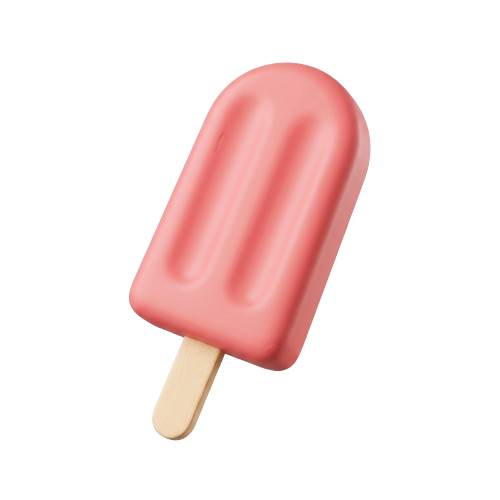
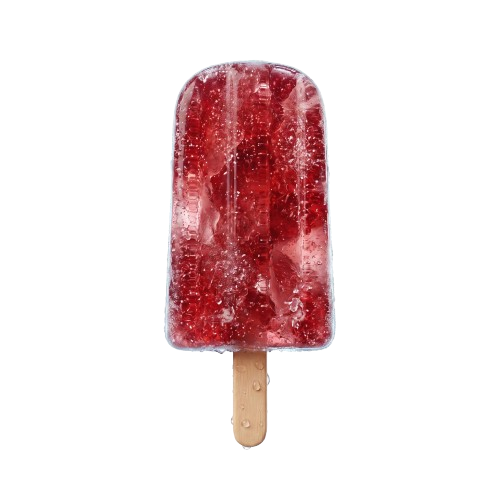
ui: integracion de branding, optimizacion responsiva de barra de busqueda y lenguaje natural

Changed region(s): [[0.24, 0.12, 0.75, 0.9]]

diff --git a/src/PosMenu.jsx b/src/PosMenu.jsx
@@ -11,6 +11,9 @@ export default function PosMenu() {
   
   // Estado local para almacenar los productos traidos desde la base de datos.
   const [catalog, setCatalog] = useState([]);
+  
+  // Estado local para filtrar sabores mediante búsqueda.
+  const [searchQuery, setSearchQuery] = useState('');
 
   // Bandera de estado para alternar la funcionalidad de los botones (cobro vs actualizacion).
   // Inicializada desde sessionStorage para persistir ante recargas de pagina.
@@ -204,10 +207,18 @@ export default function PosMenu() {
     <div className="pos-container">
       <section className="bill-section">
         <div className="bill-header">
-          <h2>Cuenta Actual</h2>
+          <div style={{ display: 'flex', alignItems: 'center', gap: '0.75rem' }}>
+            <img 
+              src="/images/logo.png" 
+              alt="Logo Paletería" 
+              style={{ width: '80px', height: '80px', objectFit: 'contain' }} 
+              onError={(e) => e.target.style.display = 'none'} 
+            />
+            <h2>Cuenta Actual</h2>
+          </div>
         </div>
         <p className="summary-text">
-          <span>Artículos: {getTotalItems()}</span>
+          <span>Paletas: {getTotalItems()}</span>
           <span>Total: ${getTotalCost().toFixed(2)}</span>
         </p>
         <ul className="bill-list">
@@ -219,7 +230,7 @@ export default function PosMenu() {
               title="Quitar un artículo"
             >
               <span className="item-name">{item.flavor}</span>
-              <span className="item-quantity">x{item.quantity} <span className="remove-icon">Remove</span></span>
+              <span className="item-quantity">x{item.quantity} <span className="remove-icon">Quitar</span></span>
             </li>
           ))}
         </ul>
@@ -236,6 +247,13 @@ export default function PosMenu() {
 
       <section className="grid-section">
         <div className="grid-header">
+          <input
+            type="text"
+            className="search-input"
+            placeholder="Buscar sabor..."
+            value={searchQuery}
+            onChange={(e) => setSearchQuery(e.target.value)}
+          />
           <button 
             className="settings-icon-btn"
             onClick={() => setIsAdminOpen(true)}
@@ -248,7 +266,7 @@ export default function PosMenu() {
           </button>
         </div>
         <div className={`flavor-grid ${isEditMode ? 'edit-mode' : ''}`}>
-          {catalog.map((itemDef) => (
+          {catalog.filter(item => item.sabor.toLowerCase().includes(searchQuery.toLowerCase())).map((itemDef) => (
             <button 
               key={itemDef.id} 
               className="flavor-button"

diff --git a/src/CierreMensual.jsx b/src/CierreMensual.jsx
@@ -106,7 +106,7 @@ export default function CierreMensual() {
 
     autoTable(doc, {
       startY: currentY + 15,
-      head: [['Fecha de Cierre', 'Monto Esperado', 'Efectivo Fisico', 'Merma / Excedente']],
+      head: [['Fecha de Corte', 'Ventas (Sistema)', 'Dinero en Caja', 'Faltante / Sobrante']],
       body: closureRows,
     });
 
@@ -117,7 +117,7 @@ export default function CierreMensual() {
   return (
     <div className="mensual-container">
       <div className="mensual-header">
-        <h3 className="mensual-title">Balance y Cierre Mensual</h3>
+        <h3 className="mensual-title">Resumen Mensual de Ventas</h3>
         
         <div className="mensual-controls">
           <input 
@@ -138,22 +138,22 @@ export default function CierreMensual() {
       
       <div className="cards-wrapper">
         <div className="summary-card">
-          <h4>Ingreso Bruto Mensual</h4>
+          <h4>Ventas Registradas</h4>
           <span className="card-value">${totalGrossIncome.toFixed(2)}</span>
         </div>
         <div className="summary-card">
-          <h4>Total Efectivo Real</h4>
+          <h4>Dinero Real en Caja</h4>
           <span className="card-value">${totalActualCash.toFixed(2)}</span>
         </div>
         <div className={`summary-card ${totalGap < 0 ? 'deficit' : 'surplus'}`}>
-          <h4>Desfase Acumulado (Merma)</h4>
+          <h4>Faltante o Sobrante</h4>
           <span className="card-value">${totalGap.toFixed(2)}</span>
         </div>
       </div>
 
       <div className="chart-wrapper">
         <h4>Frecuencia de Ventas por Sabor</h4>
-        <div id="pdf-chart-node" style={{ backgroundColor: '#1a1a1a', padding: '1rem' }}>
+        <div id="pdf-chart-node" style={{ backgroundColor: '#ffffff', padding: '1rem', borderRadius: '16px' }}>
           <ResponsiveContainer width="100%" height={300}>
             <PieChart>
               <Pie
@@ -170,7 +170,7 @@ export default function CierreMensual() {
                   <Cell key={`cell-${index}`} fill={COLORS[index % COLORS.length]} />
                 ))}
               </Pie>
-              <Tooltip contentStyle={{ backgroundColor: '#2a2a2a', border: '1px solid #444444', color: '#ffffff' }} />
+              <Tooltip contentStyle={{ backgroundColor: '#ffffff', border: '1px solid #eeeeee', color: '#333333', borderRadius: '8px' }} />
               <Legend />
             </PieChart>
           </ResponsiveContainer>

diff --git a/src/AdminPanel.jsx b/src/AdminPanel.jsx
@@ -12,25 +12,25 @@ export default function AdminPanel({ onClose, isEditMode, setIsEditMode }) {
     <div className="admin-overlay">
       <div className="admin-modal">
         <div className="admin-header">
-          <h2>Panel Administrativo</h2>
+          <h2>Configuración</h2>
           <button className="close-btn" onClick={onClose}>&times;</button>
         </div>
         <div className="admin-body">
           <p className="admin-description">
-            Opciones para modificar el menú y gestionar los cortes de caja.
+            Desde aquí puedes cambiar precios, agregar sabores y ver las ventas.
           </p>
           <button 
             className={`admin-action-btn edit-mode-btn ${isEditMode ? 'active' : ''}`}
             onClick={() => setIsEditMode(prev => !prev)}
           >
-            {isEditMode ? 'Desactivar Modo Edición' : 'Activar Modo Edición'}
+            {isEditMode ? 'Terminar de Editar' : 'Editar Precios y Sabores'}
           </button>
           
           <button 
             className="admin-action-btn cierre-btn"
             onClick={() => setIsClosing(true)}
           >
-            Realizar Cierre Diario
+            Hacer Corte del Día
           </button>
           
           <CierreMensual />

diff --git a/src/PosMenu.css b/src/PosMenu.css
@@ -93,8 +93,31 @@
 
 .grid-header {
   display: flex;
-  justify-content: flex-end;
+  justify-content: space-between;
+  align-items: center;
   margin-bottom: 1rem;
+}
+
+.search-input {
+  flex: 1; /* Permite que la barra se adapte dinámicamente al ancho disponible */
+  max-width: 100%;
+  margin-right: 1rem; /* Mantiene una distancia segura con el engranaje en pantallas pequeñas */
+  padding: 0.75rem 1.5rem;
+  border-radius: 30px; /* Highly rounded like a pill */
+  border: 2px solid transparent;
+  background-color: rgba(255, 255, 255, 0.7);
+  color: var(--text-dark);
+  font-size: 1.1rem; /* El tamaño mayor a 16px evita el auto-zoom en iOS Safari */
+  font-weight: 600;
+  outline: none;
+  box-shadow: inset 4px 4px 8px rgba(0, 0, 0, 0.05), inset -4px -4px 8px rgba(255, 255, 255, 0.8);
+  font-family: inherit;
+  transition: all 0.2s ease;
+}
+
+.search-input:focus {
+  background-color: #ffffff;
+  border-color: var(--primary-pink);
 }
 
 .settings-icon-btn {

diff --git a/src/Login.jsx b/src/Login.jsx
@@ -32,7 +32,15 @@ export default function Login({ onLoginSuccess }) {
   return (
     <div className="login-container">
       <div className="login-box">
-        <h2>¡Bienvenido!</h2>
+        <div style={{ display: 'flex', justifyContent: 'center', marginBottom: '1rem' }}>
+          <img 
+            src="/images/logo.png" 
+            alt="Logo Paletería" 
+            style={{ width: '120px', height: '120px', objectFit: 'contain', filter: 'drop-shadow(0 4px 8px rgba(0,0,0,0.1))' }} 
+            onError={(e) => e.target.style.display = 'none'} 
+          />
+        </div>
+        <h2>¡Bienvenid@!</h2>
         <p>Ingresa la clave para comenzar.</p>
         <form onSubmit={handleSubmit}>
           <input

diff --git a/index.html b/index.html
@@ -2,9 +2,9 @@
 <html lang="en">
   <head>
     <meta charset="UTF-8" />
-    <link rel="icon" type="image/svg+xml" href="/favicon.svg" />
+    <link rel="icon" type="image/png" href="/images/logo.png" />
     <meta name="viewport" content="width=device-width, initial-scale=1.0, maximum-scale=1.0, user-scalable=no" />
-    <title>sistema-paleteria</title>
+    <title>Paletas Artesanales</title>
   </head>
   <body>
     <div id="root"></div>

diff --git a/CHANGELOG.md b/CHANGELOG.md
@@ -1,5 +1,26 @@
 # Registro de Cambios - Sistema POS Paletería
 
+## ✨ Branding, Optimización Móvil y Lenguaje Humano
+
+### 1. Identidad Visual y Logotipo
+- **Integración de Marca:** Se implementó el logotipo personalizado (`logo.png`) en el sistema. Ahora se renderiza en gran tamaño en la pantalla de bienvenida (`Login.jsx`) y de forma compacta (80px) en el encabezado del Menú de Ventas.
+- **Favicon y Pestaña:** Se reemplazó el icono por defecto de React por el logotipo de la paletería en `index.html` y se actualizó el título estático de la página a **"Paletas Artesanales"**.
+
+### 2. Ergonomía y Estética de Búsqueda (UX/UI)
+- **Barra de Búsqueda Estilo Píldora:** Se rediseñó el buscador de sabores abandonando los bordes cuadrados por un `border-radius: 30px` (estilo píldora) que comulga con el tema *Claymorphism*.
+- **Diseño Responsivo (Mobile-First):** Se forzó la alineación a la izquierda (`margin-right: auto`) y se implementó flexbox elástico (`flex: 1`) para evitar superposiciones con el botón de ajustes en pantallas pequeñas. El tamaño de fuente de la barra se ancló en `1.1rem` para evadir el auto-zoom nativo de iOS Safari.
+
+### 3. Redacción Amigable y Traducción Contable (Cero Tecnicismos)
+- **Desjergonización de la Interfaz:** Se reescribieron los textos del Panel de Configuración y de la Vista de Cobro, sustituyendo términos corporativos/técnicos por lenguaje coloquial de negocio (e.g., "Artículos" por "Paletas", "Realizar Cierre Diario" por "Hacer Corte del Día", y "¡Bienvenido!" por "¡Bienvenid@!").
+- **Traducción de KPIs Financieros:** Tanto en la vista de Resumen Mensual como en el PDF autogenerado, se reemplazó la jerga contable compleja:
+  - *"Ingreso Bruto Mensual"* ➡ **"Ventas Registradas"**
+  - *"Total Efectivo Real"* ➡ **"Dinero Real en Caja"**
+  - *"Desfase Acumulado / Merma"* ➡ **"Faltante o Sobrante"**
+
+### 4. Pulido de Generación de Reportes
+- **Armonía Visual en PDF:** Se forzó el nodo DOM subyacente de la gráfica de pastel (`Recharts`) a utilizar un fondo blanco puro (`#ffffff`). Al ser capturado por `html2canvas`, el PDF generado adquiere una apariencia limpia, profesional e idónea para impresión, abandonando el recuadro negro que rompía el estilo.
+
+***
 ## 🎨 Refactorización Visual y Optimización Móvil (Claymorphism)
 
 ### 1. Sistema de Diseño (Claymorphism y Paleta Pastel)
